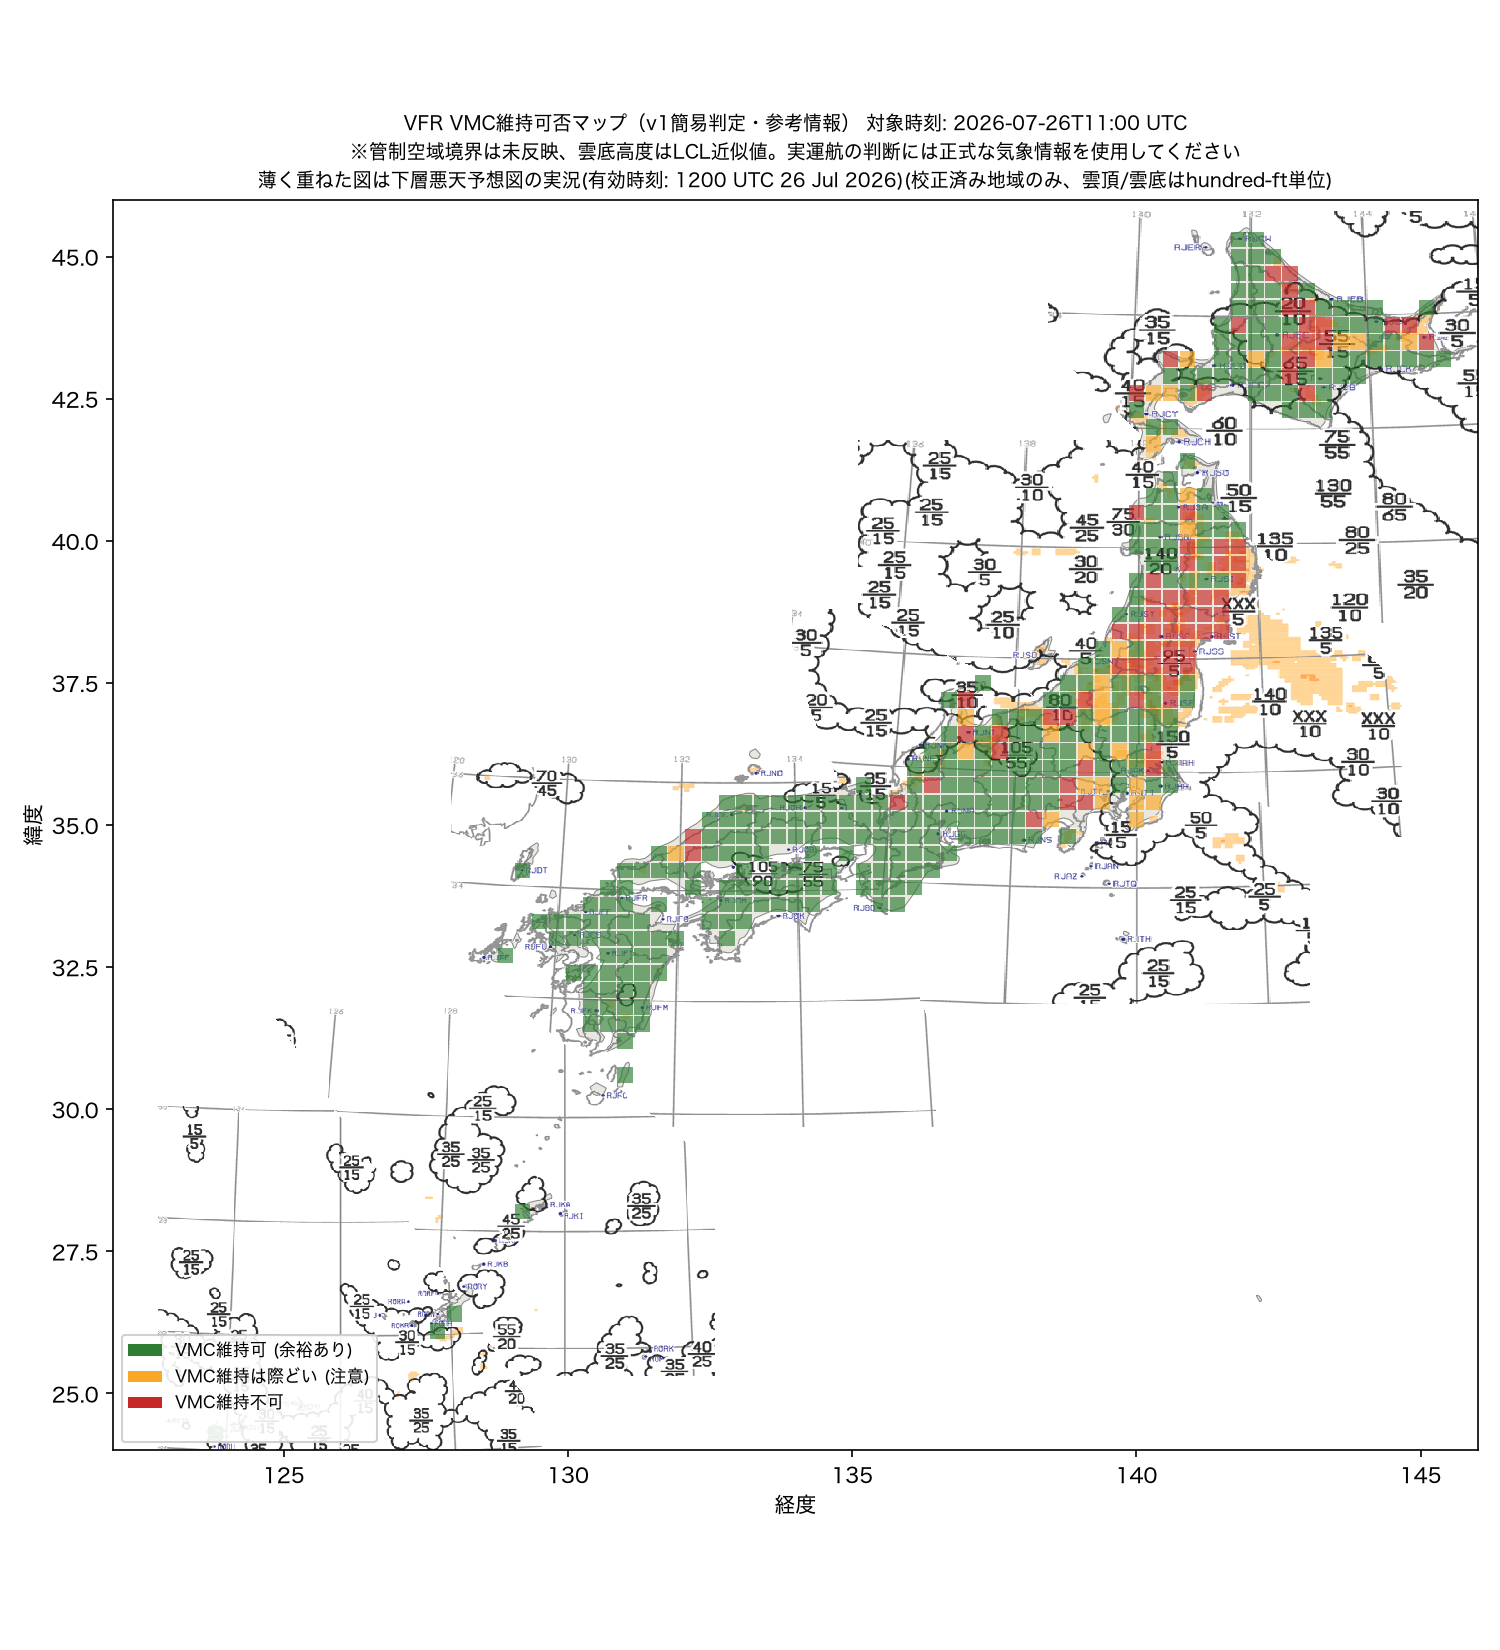
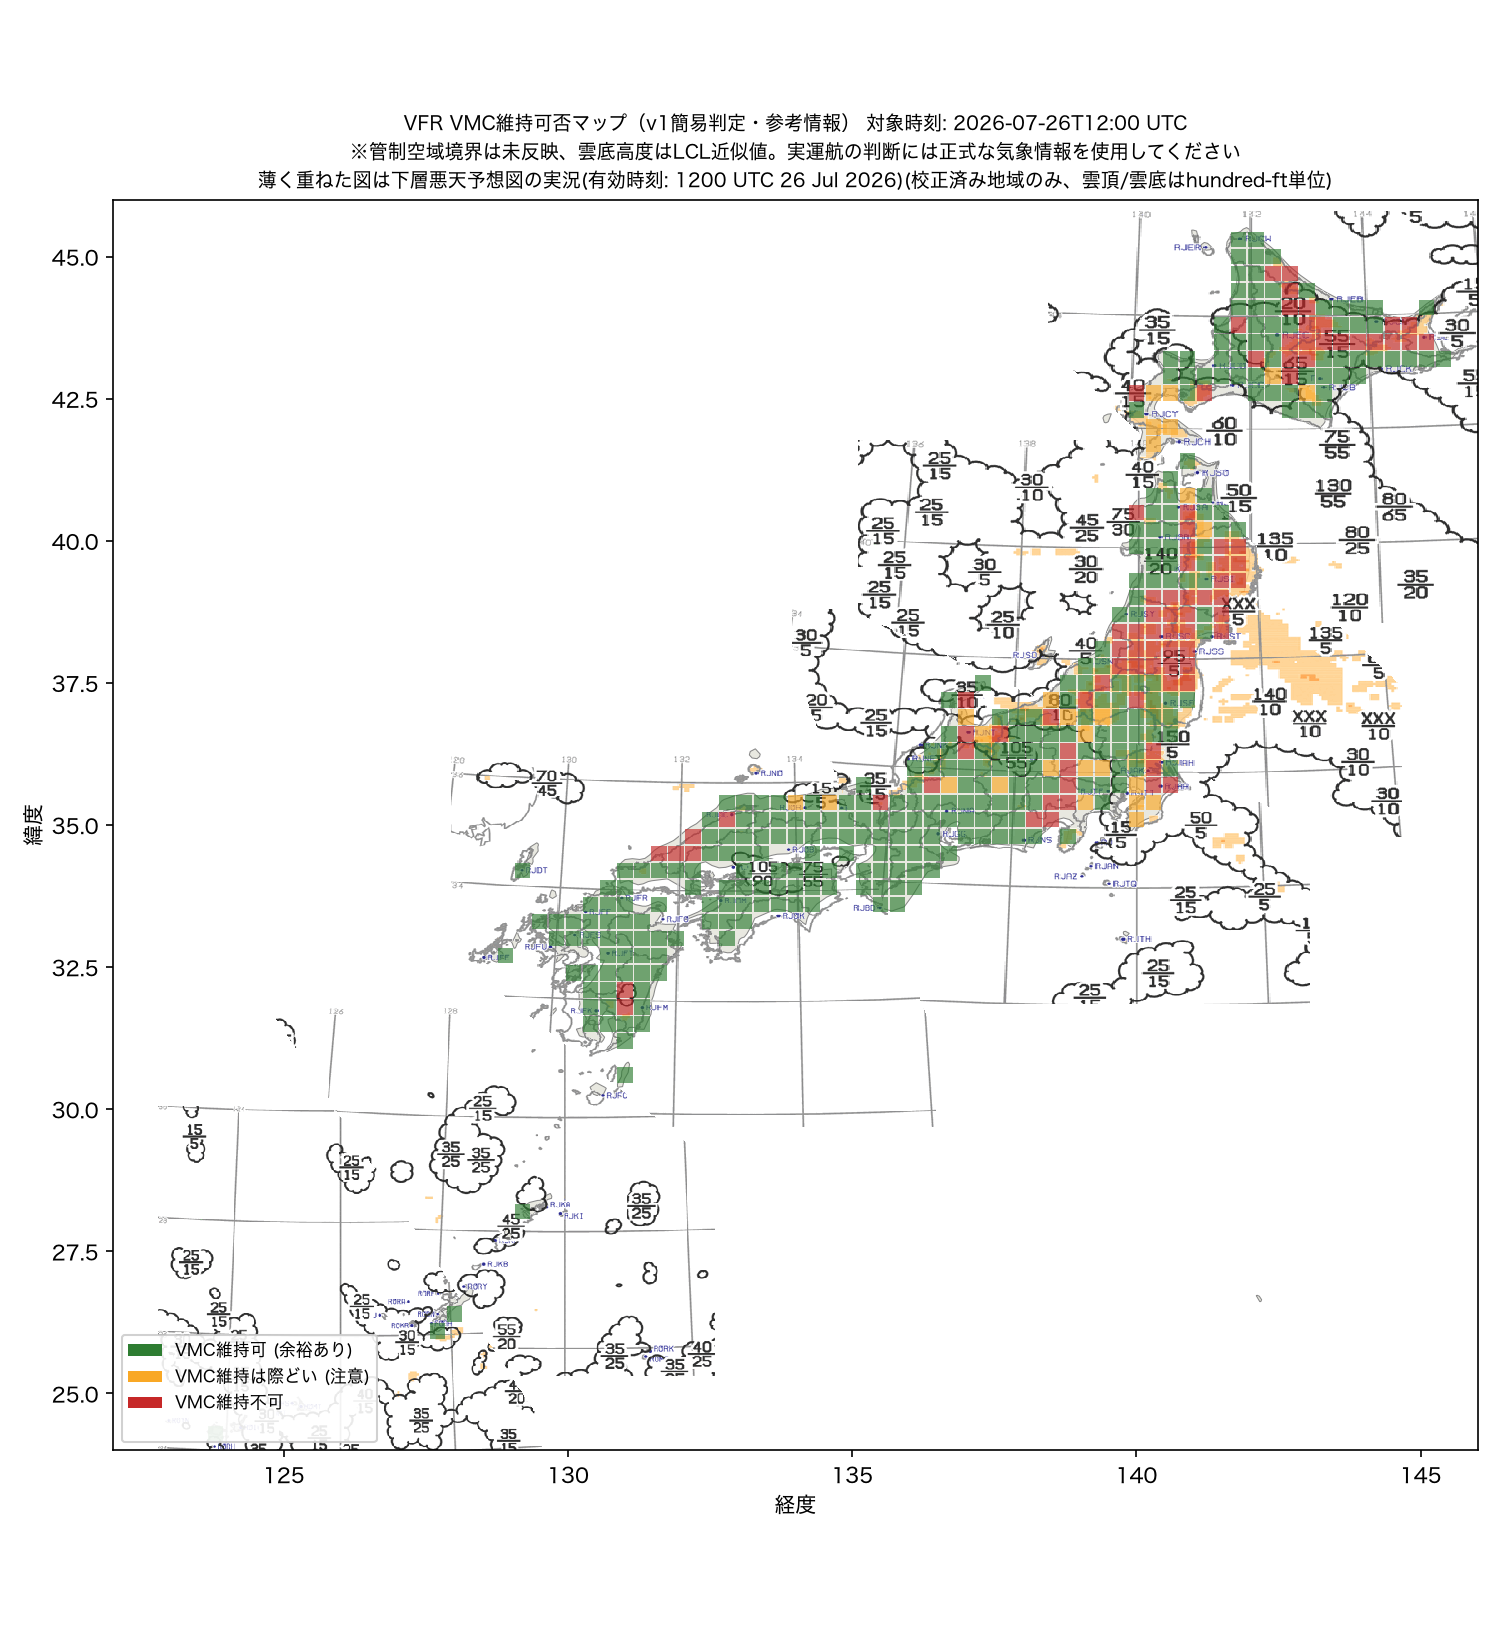
Update VMC map

diff --git a/index.html b/index.html
@@ -3,7 +3,7 @@
 <head>
 <meta charset="utf-8">
 <meta name="viewport" content="width=device-width, initial-scale=1">
-<title>VFR VMC 維持可否マップ (対象時刻: 2026-07-26T11:00 UTC)</title>
+<title>VFR VMC 維持可否マップ (対象時刻: 2026-07-26T12:00 UTC)</title>
 <style>
   :root {
     --bg: #eef1f5; --surface: #ffffff; --text: #1b2530; --text-muted: #5b6b7d;
@@ -95,7 +95,7 @@
     <h1>VFR VMC 維持可否マップ</h1>
     <p class="subtitle">日本全国、地形と雲底の隙間からVMC(視認気象状態)を維持できるかを判定した参考マップです。v1簡易判定につき、実運航の判断には正式な気象情報を使用してください。</p>
     <div class="chips">
-      <span class="chip">気象予報 対象時刻 <b>2026-07-26T11:00 UTC</b></span>
+      <span class="chip">気象予報 対象時刻 <b>2026-07-26T12:00 UTC</b></span>
       <span class="chip">下層悪天予想図 有効時刻 <b>1200 UTC 26 Jul 2026</b></span>
     </div>
   </header>
